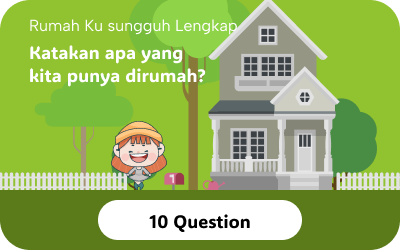
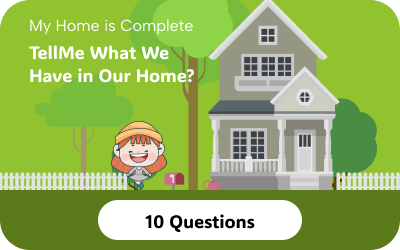
update 1 - febi

Changed region(s): [[0.06, 0.168, 0.51, 0.364], [0.06, 0.056, 0.6, 0.14], [0.36, 0.84, 0.66, 0.924]]

diff --git a/JS/latihan.js b/JS/latihan.js
@@ -24,13 +24,29 @@ function initLatihan(tema) {
     renderSoal();
 }
 
+// JS/latihan.js
+
 function cekJawaban(jawabanUser) {
+    // 1. Ambil settingan suara dari penyimpanan
+    let settings = JSON.parse(localStorage.getItem('funvo_switches')) || { suara: true };
+    let savedVol = localStorage.getItem('funvo_vol') || 50;
+
     if (jawabanUser === soalAktif[indexSekarang].answer) {
-        // PERBAIKAN DI SINI: Gunakan nama fungsi yang sesuai dengan main.js
+        // --- JAWABAN BENAR ---
+        
+        // Mainkan suara benar (bgm4.mp3) jika settingan suara ON
+        if (settings.suara) {
+            let audioBenar = new Audio('../assets/audio/bgm4.mp3');
+            audioBenar.volume = savedVol / 100;
+            audioBenar.play().catch(e => console.log("Gagal play audio benar:", e));
+        }
+
+        // Update pencapaian
         if (typeof updateAchievement === "function") {
             updateAchievement('vocab', 1); 
         }
 
+        // Lanjut ke soal berikutnya
         indexSekarang++;
         updateProgressLatihan();
 
@@ -41,12 +57,16 @@ function cekJawaban(jawabanUser) {
             finishGame();
         }
     } else {
-        // --- MODIFIKASI: Suara Jawaban Salah (bgm2.mp3) ---
-        let audioSalah = new Audio('../assets/audio/bgm2.mp3');
-        audioSalah.volume = 0.5; // Sesuaikan volume (0.0 - 1.0)
-        audioSalah.play().catch(e => console.log("Gagal play audio salah:", e));
+        // --- JAWABAN SALAH ---
 
-        showPopup("Ups!", "Coba dengarkan lagi ya 😊", 1500);
+        // Mainkan suara salah (bgm2.mp3) jika settingan suara ON
+        if (settings.suara) {
+            let audioSalah = new Audio('../assets/audio/bgm2.mp3');
+            audioSalah.volume = savedVol / 100; 
+            audioSalah.play().catch(e => console.log("Gagal play audio salah:", e));
+        }
+
+        showPopup("Ups!", "What Out for what you heard!😊", 1500);
     }
 }
 
@@ -151,9 +171,9 @@ function useHint() {
         const jawabanBenar = soalAktif[indexSekarang].answer; 
         const hurufPertama = jawabanBenar.charAt(0).toUpperCase();
         
-        showPopup("Petunjuk!", `Kata dimulai huruf: "${hurufPertama}"`, 2000);
+        showPopup("Hint!", `The First Word Start With: "${hurufPertama}"`, 2000);
     } else {
-        showPopup("Habis!", "Maaf, petunjuk kamu sudah habis. Ayo coba sendiri! 💪", 2000);
+        showPopup("Run out!", "Sorry, Your hints are up. Come on, try it yourself! 💪", 2000);
     }
 }
 

diff --git a/JS/main.js b/JS/main.js
@@ -318,8 +318,8 @@ function initHome() {
     const greetingText = document.getElementById("greetings");
     if (greetingText) {
         const jam = new Date().getHours();
-        let ucapan = jam < 12 ? "Pagi" : (jam < 15 ? "Siang" : (jam < 18 ? "Sore" : "Malam"));
-        greetingText.innerText = `Halo, Selamat ${ucapan}!`;
+        let ucapan = jam < 12 ? "Morning" : (jam < 15 ? "Afternoon" : (jam < 18 ? "Evening" : "Night"));
+        greetingText.innerText = `Hello, Good ${ucapan}!`;
     }
 }
 

diff --git a/Pages/pengaturan.html b/Pages/pengaturan.html
@@ -1,5 +1,5 @@
 <div class="settings-content">
-    <h2 class="settings-title">PENGATURAN</h2>
+    <h2 class="settings-title">Settings</h2>
 
 <div class="pembungkus-vol-mus">
     <div class="slider-row">
